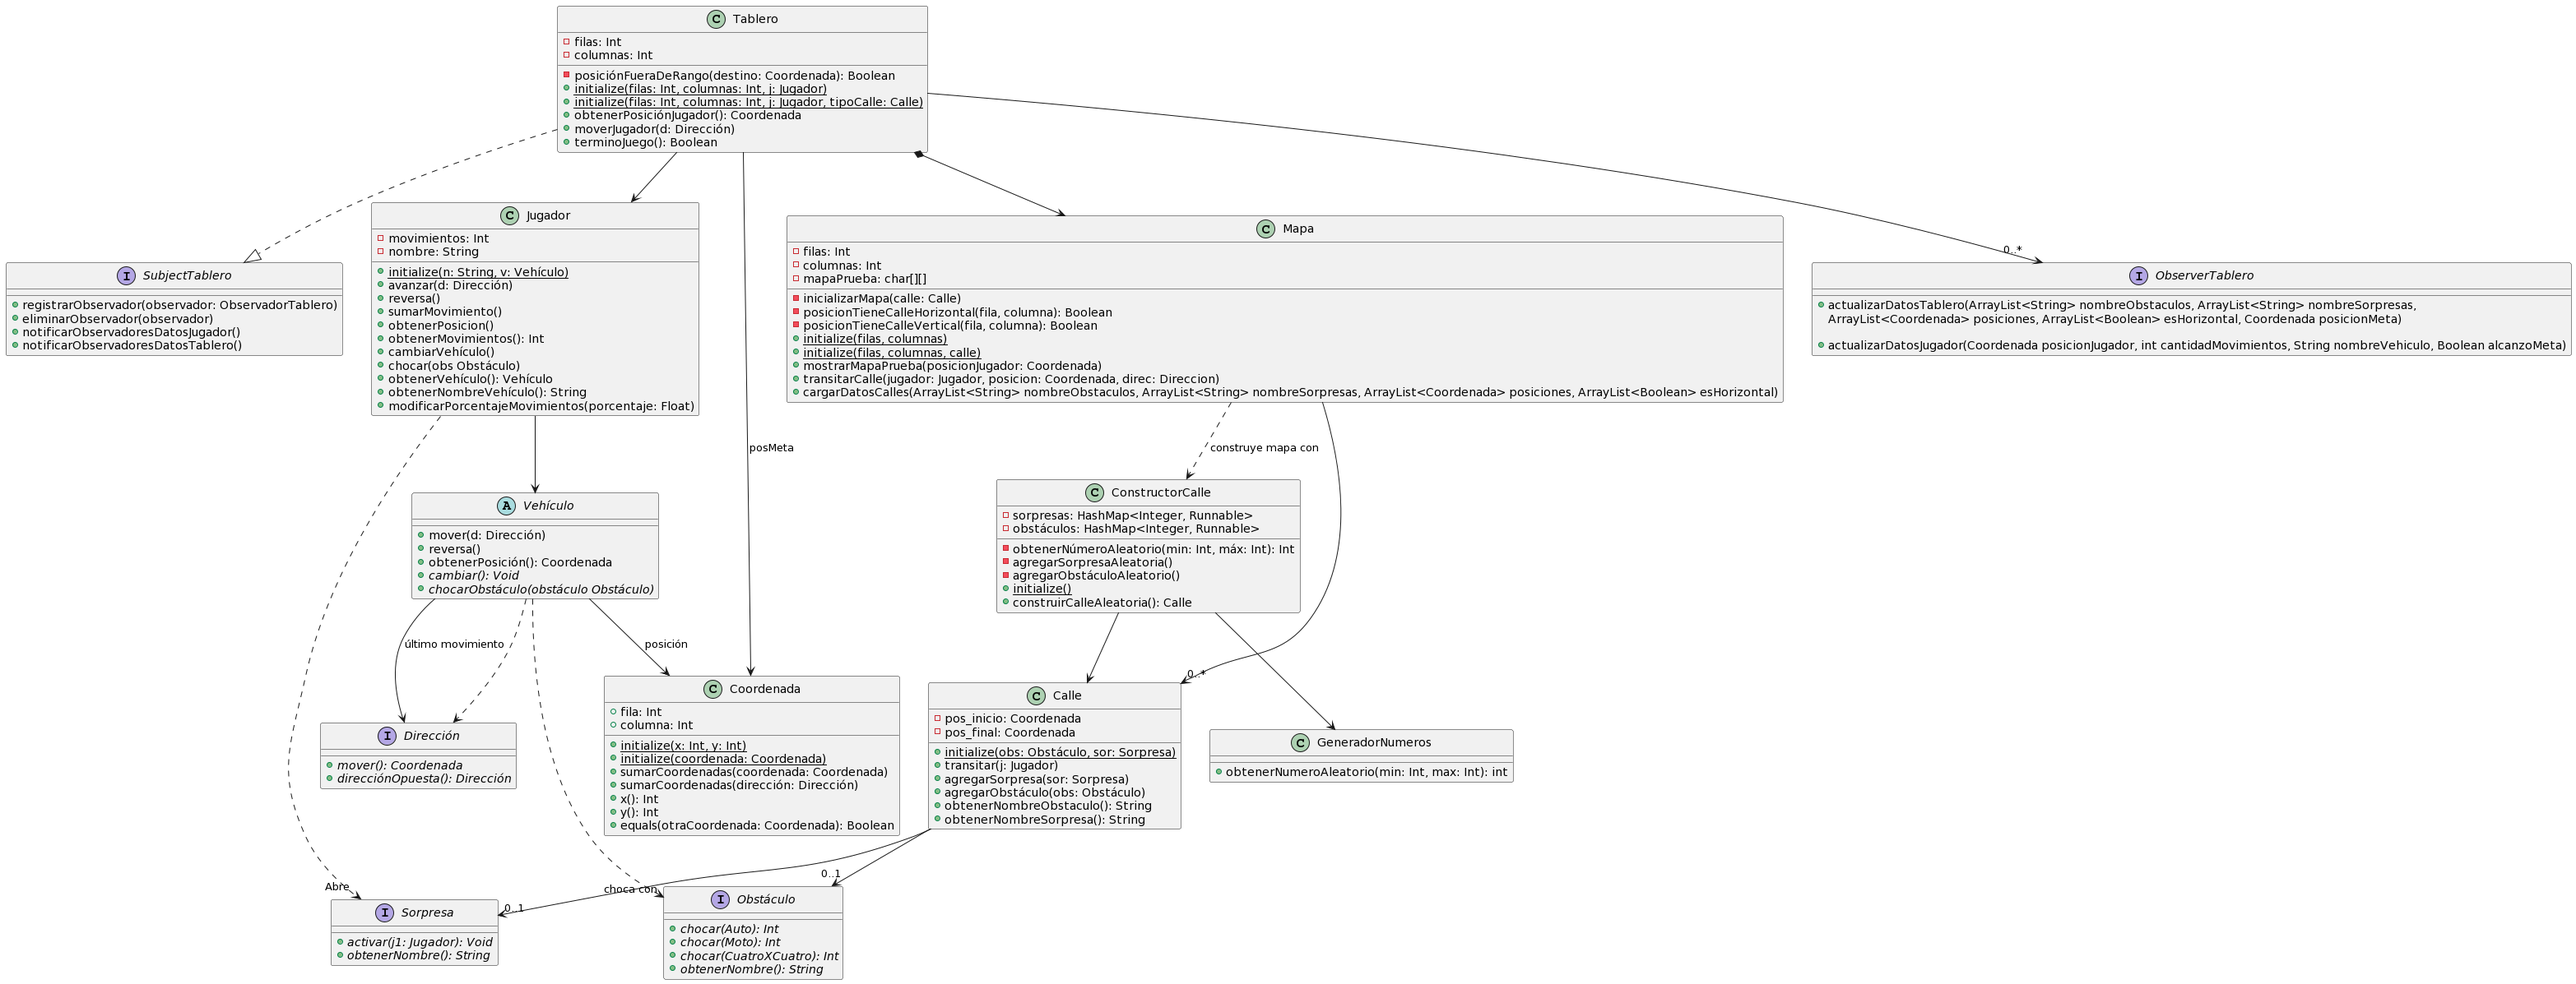
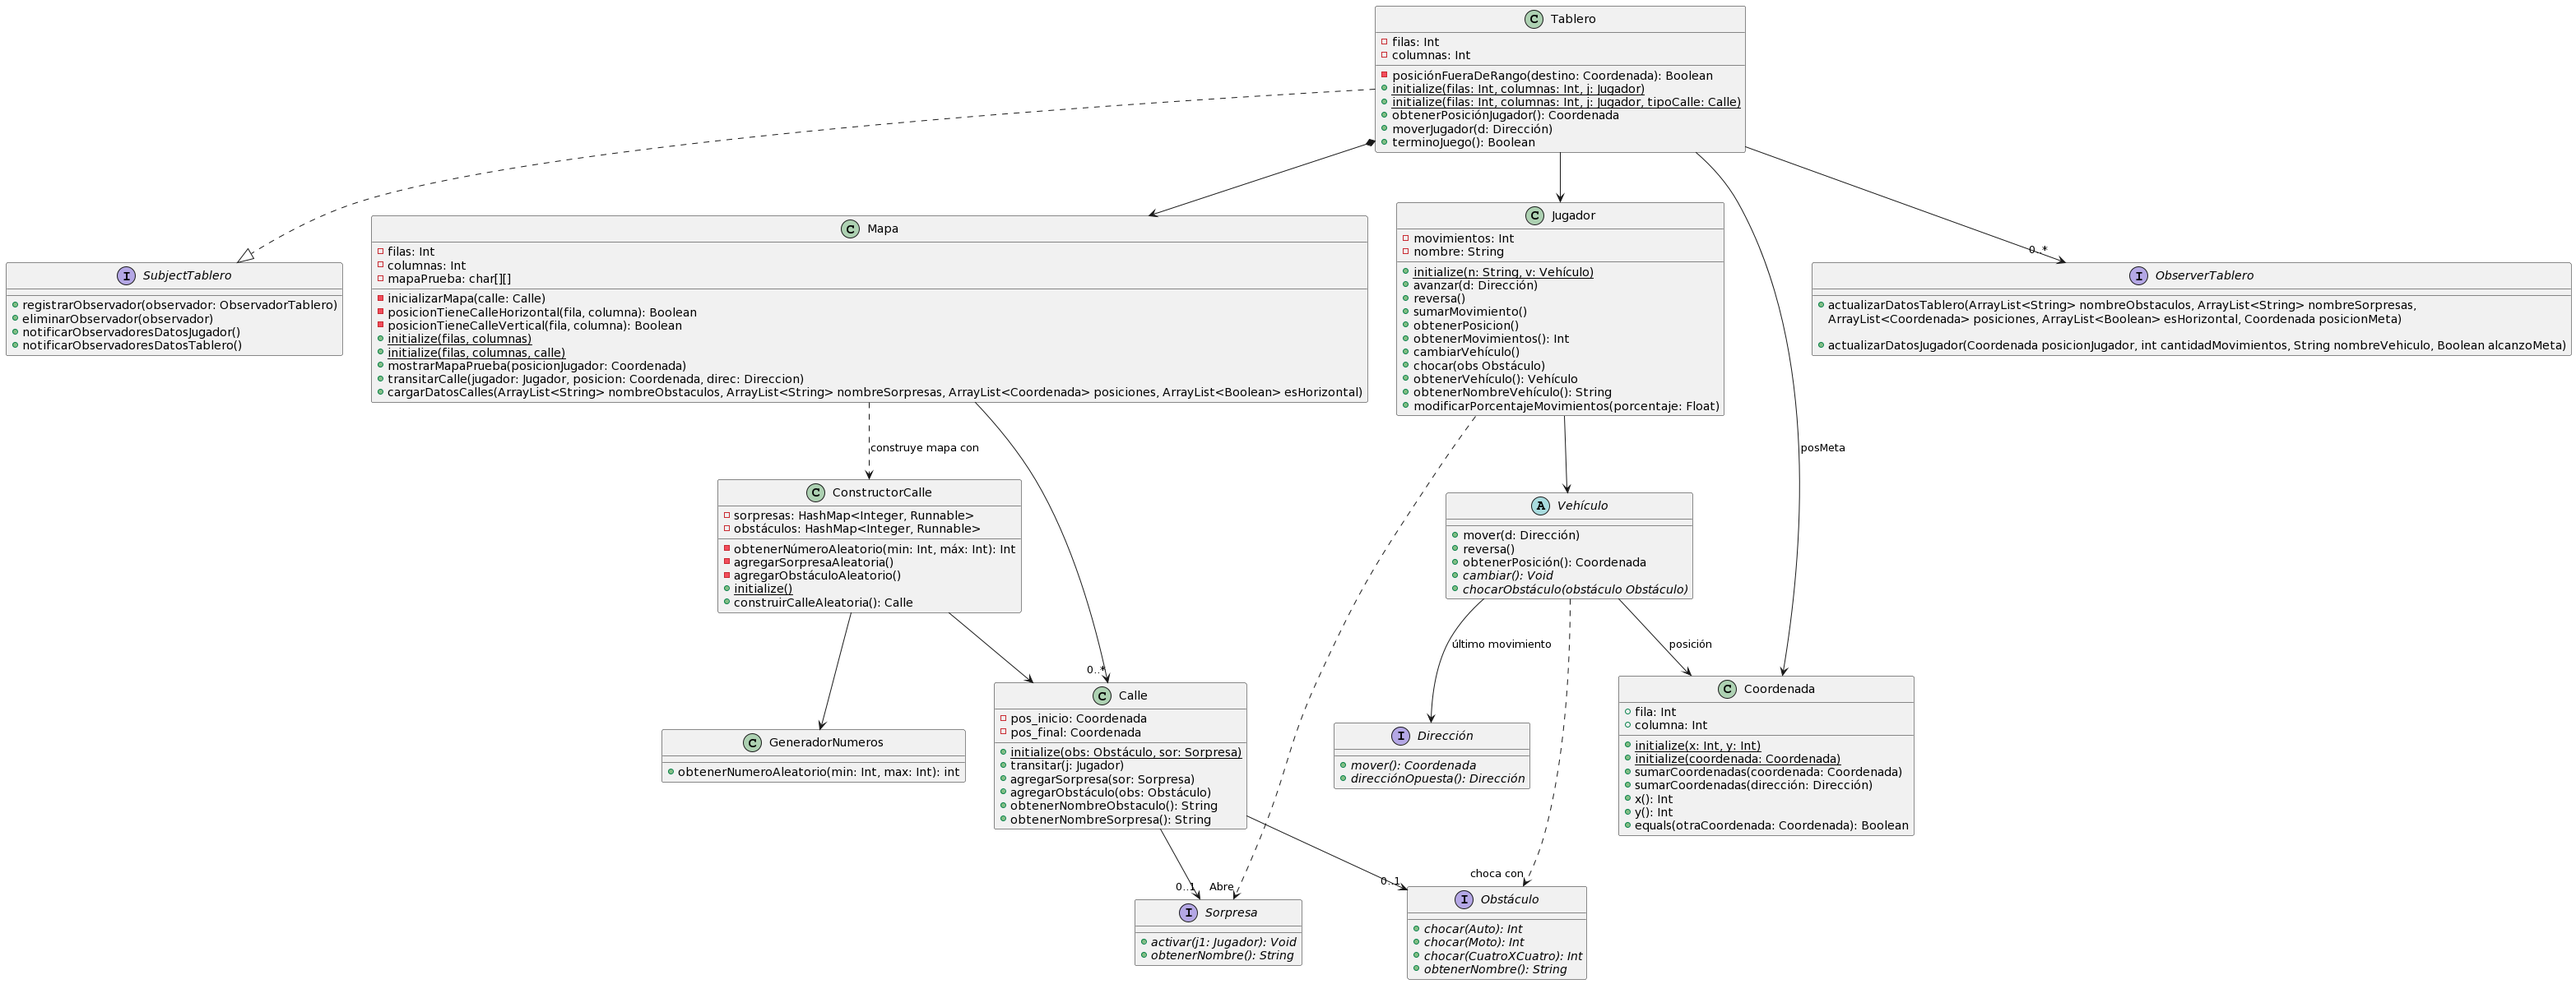
Tablero ahora puede tener más de 1 observer
y actualizo diagrama de clases modelo

diff --git a/src/main/java/edu/fiuba/algo3/model/Tablero.java b/src/main/java/edu/fiuba/algo3/model/Tablero.java
@@ -10,7 +10,7 @@ import edu.fiuba.algo3.model.coordenada.Direccion;
 import java.util.ArrayList;
 
 public class Tablero implements SubjectTablero{
-    private ObserverTablero observador;
+    private final ArrayList<ObserverTablero> observers = new ArrayList<>();
     private final int filas;
     private final int columnas;
     private final Jugador jugador;
@@ -57,8 +57,7 @@ public class Tablero implements SubjectTablero{
 
         mostrarMapaPrueba();
 
-        if(observador != null)
-            notificarObservadoresDatosJugador();
+        notificarObservadoresDatosJugador();
     }
 
     public boolean terminoJuego(){
@@ -67,17 +66,18 @@ public class Tablero implements SubjectTablero{
 
     @Override
     public void registrarObservador(ObserverTablero observador) {
-        this.observador = observador;
+        observers.add(observador);
     }
 
     @Override
-    public void eliminarObservador() {
-        this.observador = null;
+    public void eliminarObservador(ObserverTablero observador) {
+        observers.remove(observador);
     }
 
     @Override
     public void notificarObservadoresDatosJugador() {
-        observador.actualizarDatosJugador(jugador.obtenerPosicion(), jugador.obtenerMovimientos(), jugador.obtenerNombreVehiculo(), terminoJuego());
+        for (ObserverTablero observer : observers)
+            observer.actualizarDatosJugador(jugador.obtenerPosicion(), jugador.obtenerMovimientos(), jugador.obtenerNombreVehiculo(), terminoJuego());
     }
 
     @Override
@@ -87,6 +87,8 @@ public class Tablero implements SubjectTablero{
         ArrayList<Coordenada> posiciones = new ArrayList<>();
         ArrayList<Boolean> esHorizontal = new ArrayList<>();
         mapa.cargarDatosCalles(nombreObstaculos, nombreSorpresas, posiciones, esHorizontal);
-        observador.actualizarDatosTablero(nombreObstaculos, nombreSorpresas, posiciones, esHorizontal, posMeta);
+
+        for(ObserverTablero observer : observers)
+            observer.actualizarDatosTablero(nombreObstaculos, nombreSorpresas, posiciones, esHorizontal, posMeta);
     }
 }

diff --git a/src/main/java/edu/fiuba/algo3/model/SubjectTablero.java b/src/main/java/edu/fiuba/algo3/model/SubjectTablero.java
@@ -2,9 +2,7 @@ package edu.fiuba.algo3.model;
 
 public interface SubjectTablero {
     void registrarObservador(ObserverTablero observador);
-
-    void eliminarObservador();
+    void eliminarObservador(ObserverTablero observador);
     void notificarObservadoresDatosJugador();
-
     void notificarObservadoresDatosTablero();
 }
